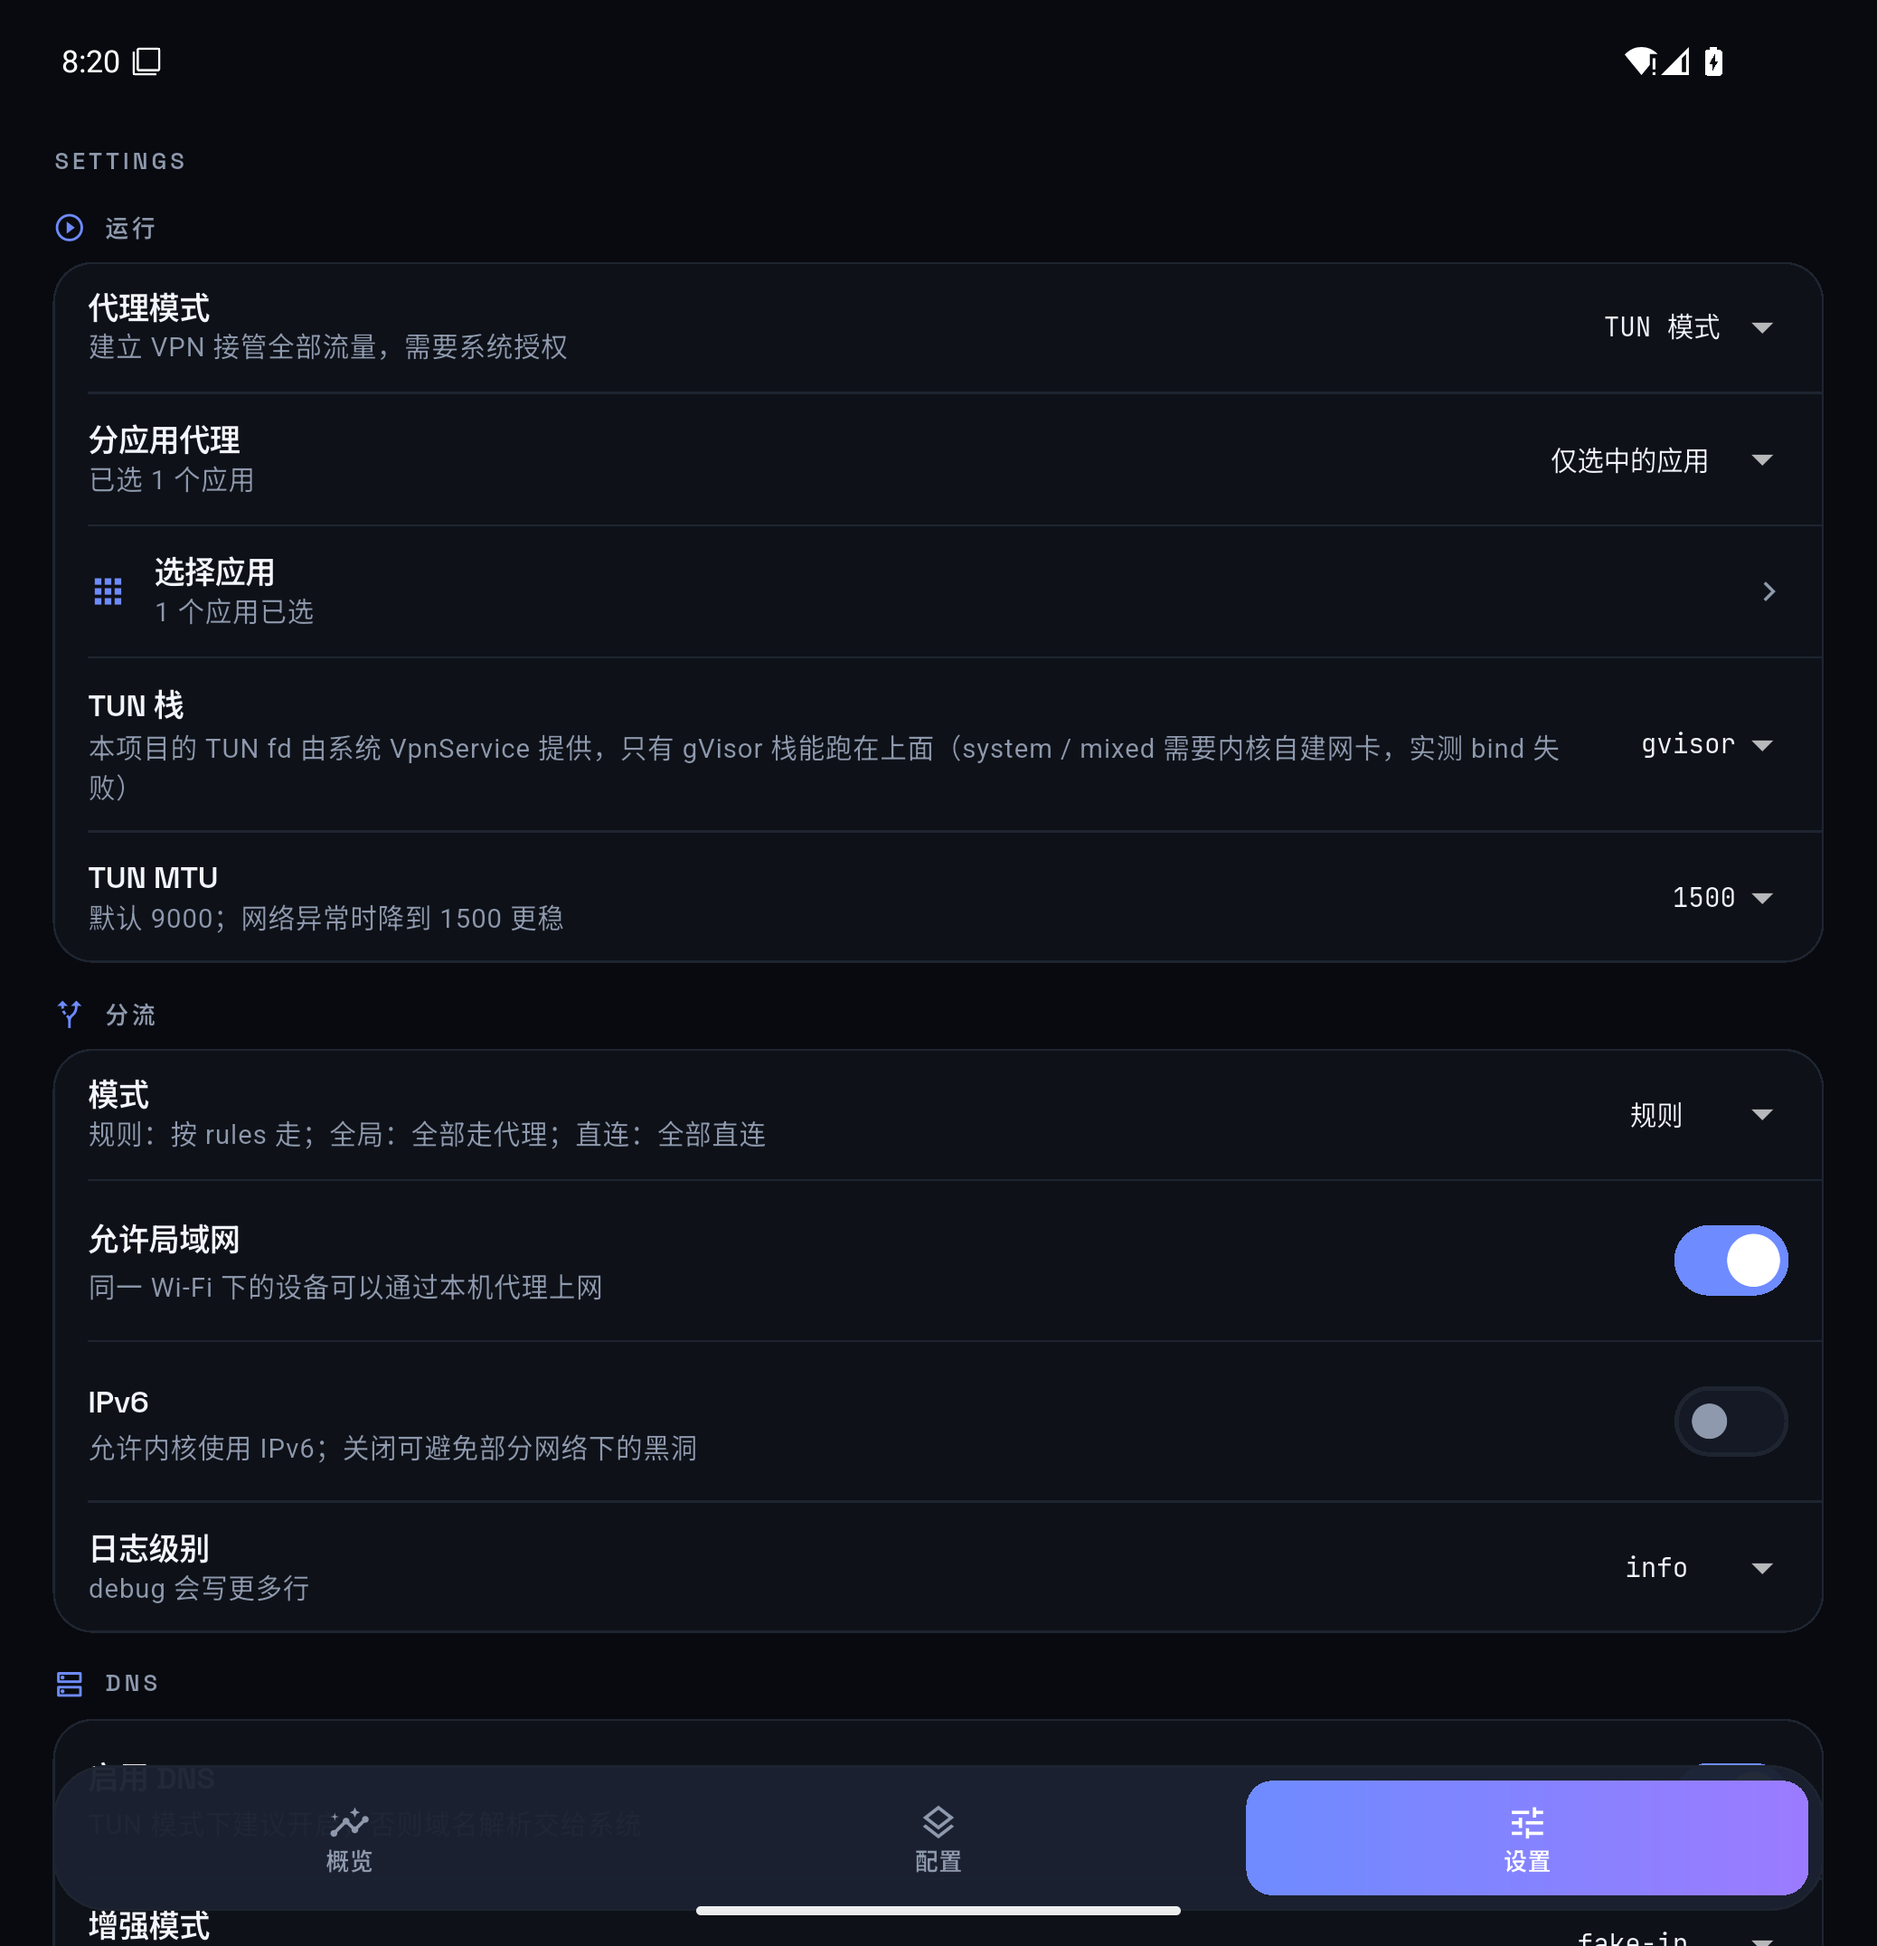
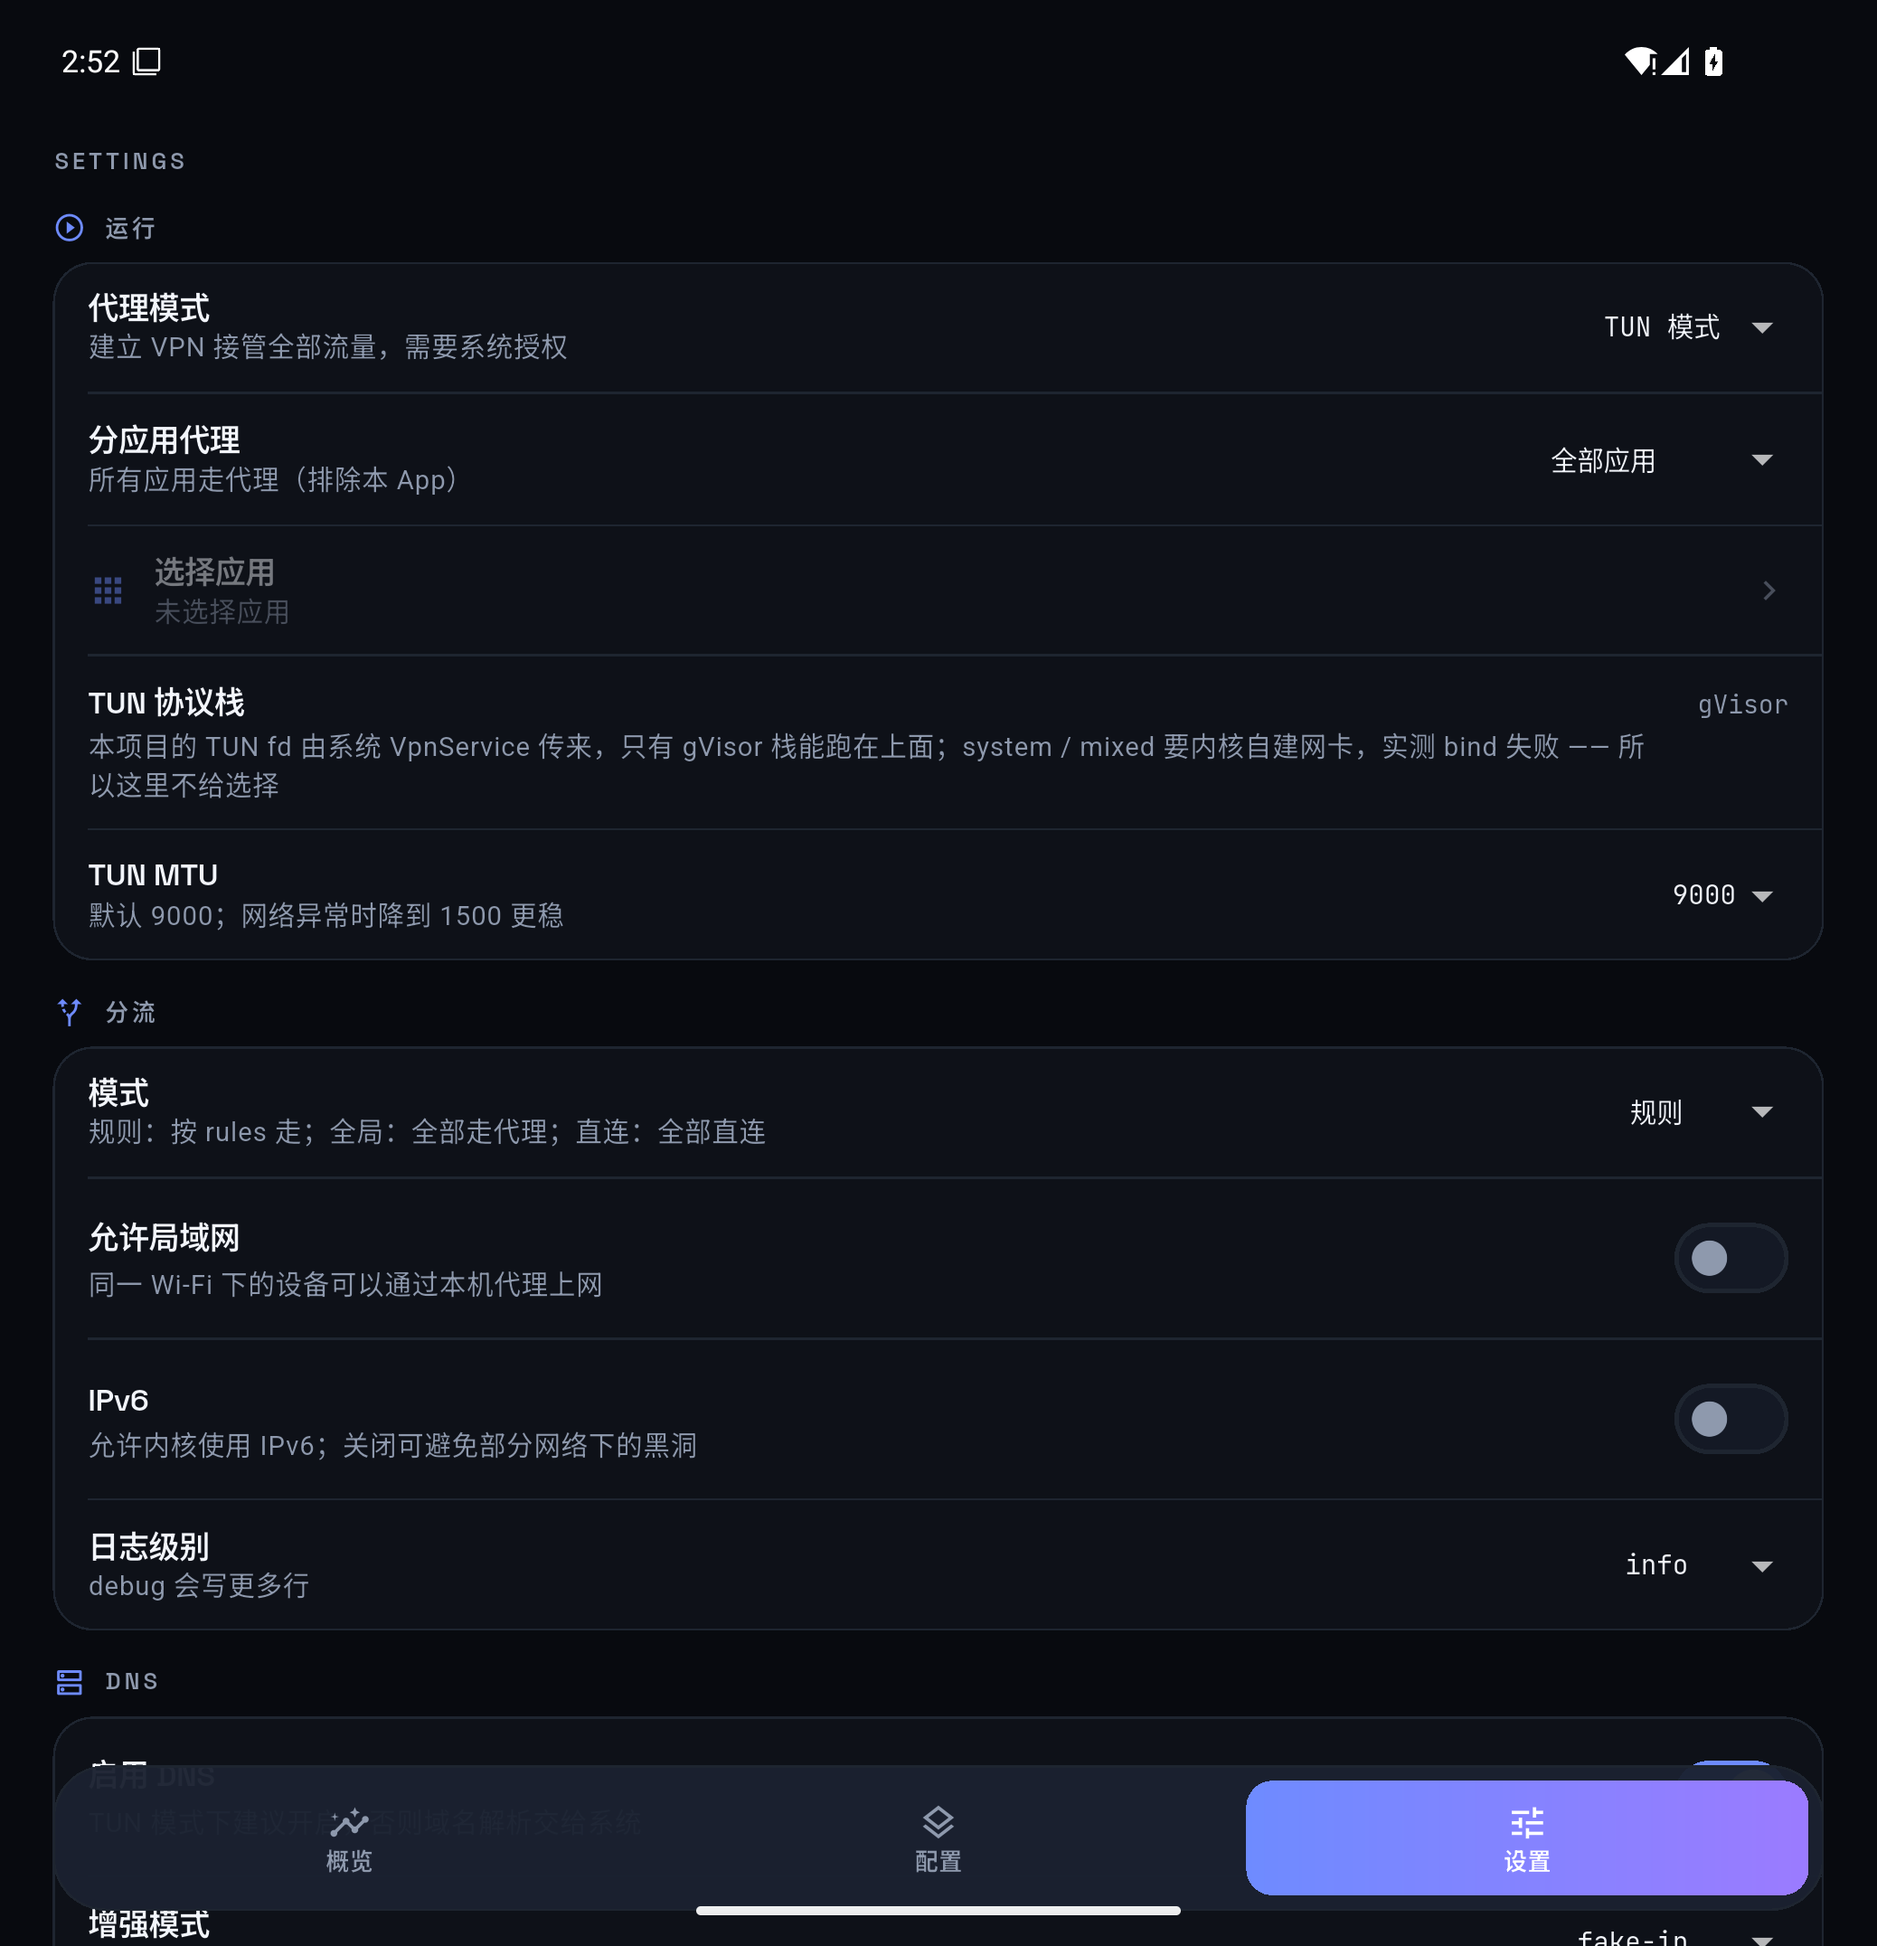
ui: 节点列表默认折叠显示全部节点；组内加满时给提示；TUN 栈改为只读说明

diff --git a/lib/ui/proxy_board.dart b/lib/ui/proxy_board.dart
@@ -442,7 +442,6 @@ class _ProxyBoardState extends State<ProxyBoard> {
   Widget build(BuildContext context) {
     final scheme = Theme.of(context).colorScheme;
     final profile = s.profile;
-    final ungrouped = profile.ungroupedNodes;
 
     return ListView(
       padding: const EdgeInsets.fromLTRB(Insets.lg, Insets.sm, Insets.lg, 120),
@@ -456,8 +455,8 @@ class _ProxyBoardState extends State<ProxyBoard> {
             style: mono(11, color: scheme.onSurfaceVariant, letterSpacing: 0.3),
           ),
         ),
-        _PoolCard(
-          nodes: ungrouped,
+        _NodeListCard(
+          nodes: profile.proxies,
           onOpen: _editNode,
           onMove: (n) => _moveDialog(n, null),
           onDelete: _deleteNode,
@@ -479,6 +478,19 @@ class _ProxyBoardState extends State<ProxyBoard> {
               onEdit: () => _editGroup(group),
               onDelete: () => _deleteGroup(group),
               onAddMember: () async {
+                final hasCandidate =
+                    profile.proxies.any(
+                      (p) => !group.members.contains(p.name),
+                    ) ||
+                    profile.groups.any(
+                      (g) =>
+                          g.name != group.name &&
+                          !group.members.contains(g.name),
+                    );
+                if (!hasCandidate) {
+                  _toast('「${group.name}」里已经包含所有节点和策略组，没有可添加的了');
+                  return;
+                }
                 final picked = await _pickNode(profile, group);
                 if (picked == null) return;
                 if (!s.addGroupMember(group.name, picked)) _fail();
@@ -560,8 +572,12 @@ IconData groupIcon(String type) => switch (type) {
 Color _dropBorder(ColorScheme scheme, bool active) =>
     active ? scheme.primary : scheme.outlineVariant.withValues(alpha: 0.7);
 
-class _PoolCard extends StatelessWidget {
-  const _PoolCard({
+/// 全部节点列表：默认折叠，点标题展开。
+///
+/// 这里列出 `proxies:` 里的所有节点，不管它有没有被加进某个策略组；
+/// 从组里把芯片拖到这张卡上 = 从那个组移除（节点本身保留）。
+class _NodeListCard extends StatefulWidget {
+  const _NodeListCard({
     required this.nodes,
     required this.onOpen,
     required this.onMove,
@@ -576,11 +592,19 @@ class _PoolCard extends StatelessWidget {
   final void Function(_DragData) onDrop;
 
   @override
+  State<_NodeListCard> createState() => _NodeListCardState();
+}
+
+class _NodeListCardState extends State<_NodeListCard> {
+  bool _expanded = false;
+
+  @override
   Widget build(BuildContext context) {
     final scheme = Theme.of(context).colorScheme;
+    final count = widget.nodes.length;
     return DragTarget<_DragData>(
       onWillAcceptWithDetails: (d) => d.data.fromGroup != null,
-      onAcceptWithDetails: (d) => onDrop(d.data),
+      onAcceptWithDetails: (d) => widget.onDrop(d.data),
       builder: (context, candidate, _) {
         final active = candidate.isNotEmpty;
         return AppCard(
@@ -590,49 +614,61 @@ class _PoolCard extends StatelessWidget {
             Insets.lg,
             Insets.md,
             Insets.lg,
-            Insets.lg,
+            Insets.md,
           ),
+          onTap: () => setState(() => _expanded = !_expanded),
           child: Column(
             crossAxisAlignment: CrossAxisAlignment.start,
             children: [
               Row(
                 children: [
                   Icon(
-                    active ? Icons.move_to_inbox : Icons.inbox_outlined,
+                    active ? Icons.move_to_inbox : Icons.list_alt_outlined,
                     size: 17,
                     color: scheme.onSurfaceVariant,
                   ),
                   const SizedBox(width: Insets.sm),
-                  Text('未归类节点', style: display(15, weight: 600)),
-                  const Spacer(),
+                  Text('节点列表', style: display(15, weight: 600)),
+                  const SizedBox(width: Insets.sm),
                   Text(
-                    '${nodes.length}',
+                    '$count',
                     style: mono(11.5, color: scheme.onSurfaceVariant),
+                  ),
+                  const Spacer(),
+                  Icon(
+                    _expanded ? Icons.expand_less : Icons.expand_more,
+                    size: 20,
+                    color: scheme.onSurfaceVariant,
                   ),
                 ],
               ),
               const SizedBox(height: 3),
               Text(
-                active ? '松手就从当前组移除' : '不在任何组里的节点',
+                active
+                    ? '松手就从当前组移除'
+                    : (_expanded ? '点节点编辑，长按拖到组里' : '点这里展开；所有节点都在，不管有没有进组'),
                 style: hintStyle(context),
               ),
-              if (nodes.isNotEmpty) ...[
+              if (_expanded) ...[
                 const SizedBox(height: Insets.md),
-                Wrap(
-                  spacing: Insets.sm,
-                  runSpacing: Insets.sm,
-                  children: [
-                    for (final n in nodes)
-                      NodeChip(
-                        node: n,
-                        fromGroup: null,
-                        onOpen: () => onOpen(n),
-                        onMove: () => onMove(n),
-                        onDelete: () => onDelete(n),
-                        onRemove: null,
-                      ),
-                  ],
-                ),
+                if (count == 0)
+                  Text('还没有节点：点下面「添加节点」。', style: hintStyle(context))
+                else
+                  Wrap(
+                    spacing: Insets.sm,
+                    runSpacing: Insets.sm,
+                    children: [
+                      for (final n in widget.nodes)
+                        NodeChip(
+                          node: n,
+                          fromGroup: null,
+                          onOpen: () => widget.onOpen(n),
+                          onMove: () => widget.onMove(n),
+                          onDelete: () => widget.onDelete(n),
+                          onRemove: null,
+                        ),
+                    ],
+                  ),
               ],
             ],
           ),

diff --git a/lib/ui/settings_page.dart b/lib/ui/settings_page.dart
@@ -200,15 +200,12 @@ class _SettingsPageState extends State<SettingsPage> {
                   await _applyRestart(() => state.setRoutePackages(picked));
                 },
               ),
-              _ChoiceRow<String>(
-                label: 'TUN 栈',
+              _InfoRow(
+                label: 'TUN 协议栈',
                 description:
-                    '本项目的 TUN fd 由系统 VpnService 提供，只有 gVisor 栈能跑在上面'
-                    '（system / mixed 需要内核自建网卡，实测 bind 失败）',
-                value: 'gvisor',
-                items: const ['gvisor'],
-                labelOf: (v) => v,
-                onChanged: (v) => _applyRestart(() => state.setTunStack(v)),
+                    '本项目的 TUN fd 由系统 VpnService 传来，只有 gVisor 栈能跑在上面；'
+                    'system / mixed 要内核自建网卡，实测 bind 失败 —— 所以这里不给选择',
+                value: 'gVisor',
               ),
               _ChoiceRow<int>(
                 label: 'TUN MTU',
@@ -596,6 +593,55 @@ class _ValueRow extends StatelessWidget {
             ],
           ],
         ),
+      ),
+    );
+  }
+}
+
+/// 只读信息行：说明某个能力当前只有一种实现，不做成可切换的下拉。
+class _InfoRow extends StatelessWidget {
+  const _InfoRow({
+    required this.label,
+    required this.description,
+    required this.value,
+  });
+
+  final String label;
+  final String description;
+  final String value;
+
+  @override
+  Widget build(BuildContext context) {
+    final scheme = Theme.of(context).colorScheme;
+    return Padding(
+      padding: const EdgeInsets.fromLTRB(
+        Insets.lg,
+        Insets.md,
+        Insets.lg,
+        Insets.md,
+      ),
+      child: Row(
+        crossAxisAlignment: CrossAxisAlignment.start,
+        children: [
+          Expanded(
+            child: Column(
+              crossAxisAlignment: CrossAxisAlignment.start,
+              children: [
+                Text(label, style: display(14, weight: 600)),
+                const SizedBox(height: 2),
+                Text(description, style: hintStyle(context)),
+              ],
+            ),
+          ),
+          const SizedBox(width: Insets.md),
+          Padding(
+            padding: const EdgeInsets.only(top: 2),
+            child: Text(
+              value,
+              style: mono(11.5, color: scheme.onSurfaceVariant),
+            ),
+          ),
+        ],
       ),
     );
   }
